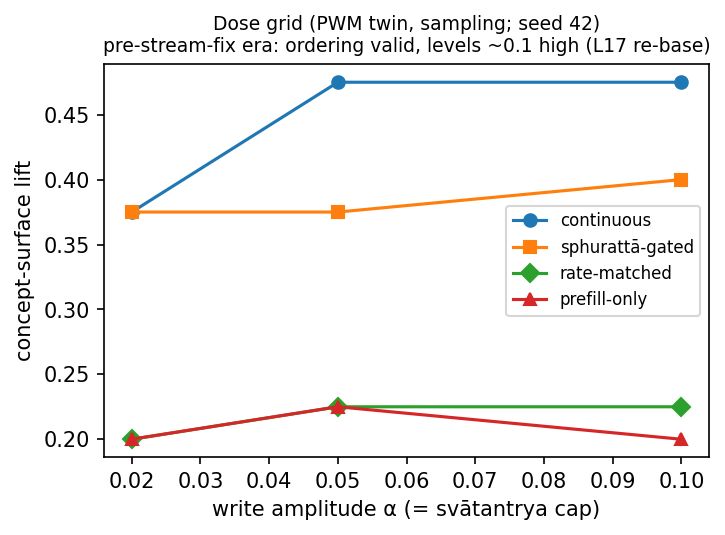
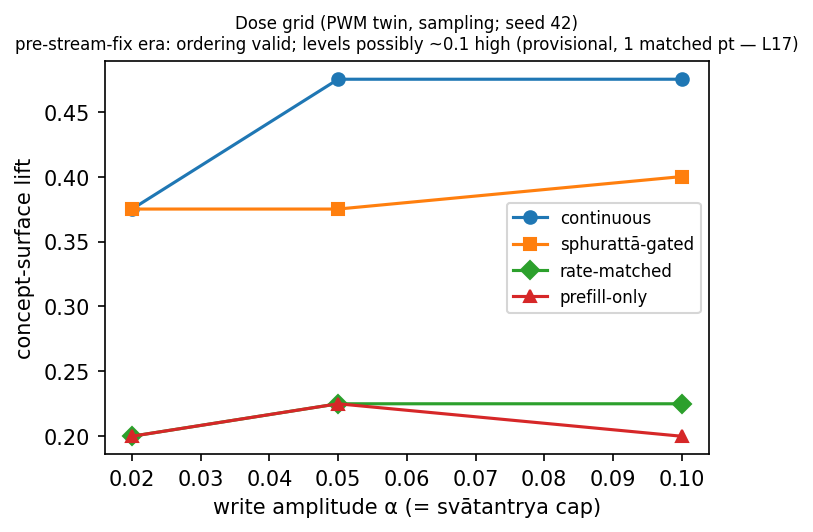
fix(L17): review #14 corrections — xdose scoped to arm-set robustness (name overreached), L8 staleness downgraded to PROVISIONAL (1 matched pt), single-seed audit run (all confirm claims multi-seed); L17 closed

Changed region(s): [[0.0, 0.0301, 1.0, 0.9925]]

diff --git a/scripts/tools/compose_L17_xdose.py b/scripts/tools/compose_L17_xdose.py
@@ -1,8 +1,8 @@
 """Compose gates/gate_L17_xdose.json — dose response across configs + a stale-gate find.
 Concept: review #13 asked whether nemotron's active-range dose response is config-
 robust. It is (narrowly: the configs turn out to differ only in arm set) — and the
-comparison surfaced that gate_L8_dose's LEVELS are pre-stream-fix era and inflated
-~0.1 vs clean-stream re-measurement at matched alpha and content.
+comparison surfaced a PROVISIONAL sign that gate_L8_dose's LEVELS may be pre-stream-fix
+inflated (~0.1 at the one matched alpha=0.02); flagged, not asserted (review #14).
 Source: configs/efe_menu7.yaml unified_dose_crossconfig (success: >= 1/2 adjacent
 pairs rising > 0.05 on the e8dose config too).
 Primitive: gates/gate_L17_xdose_s42_a{0.005,0.01,0.02}.json + s123_a0.01 ->
@@ -54,22 +54,29 @@ gate = {
             "seed123_replication_at_0.01": {"gated_lift": rep["lift"],
                                             "gated_dH": rep["step_entropy_delta"]},
             "disclosures": [
-                "SCOPE NARROWER THAN INTENDED: e8dose and e5align share stubs, "
-                "concepts, and decoding — they differ only in arm set (continuous "
-                "included here). This is arm-set robustness (gated-arm numbers "
-                "unchanged when the continuous arm runs alongside), not full "
-                "config robustness",
-                "STALE-GATE FINDING (unregistered, follows from matched content): "
-                "gate_L8_dose's levels (e.g. gated 0.375 at alpha=0.02) are "
-                "PRE-stream-fix era (L8 predates the L9 per-generation reseeding "
-                "fix) and run ~0.1 above clean-stream re-measurement at matched "
-                "alpha and content (0.28 here and in L16-fine). L8's ORDERING "
-                "conclusions stand; its LEVELS are not canonical. Ledgered as a "
-                "divergence note; figures/paper citing L8 levels now carry the "
+                "CANDIDATE NAME OVERREACHES (review #14): registered as "
+                "'unified_dose_crossconfig' but e8dose and e5align turn out to "
+                "share stubs, concepts, and decoding — they differ ONLY in arm set "
+                "(continuous included here). What is actually shown is ARM-SET "
+                "robustness: the gated-arm dose numbers are unchanged when the "
+                "continuous arm runs alongside. TRUE cross-config robustness "
+                "(different stubs/decoding) is NOT tested and remains open",
+                "L8 STALENESS is PROVISIONAL (review #14): the pre-stream-fix vs "
+                "clean-stream level gap is observed at ONE matched alpha (0.02: L8 "
+                "gated 0.375 vs 0.28 here and in L16-fine). L8 predates the L9 "
+                "per-generation reseeding fix, so a gap is EXPECTED, but a single "
+                "matched point cannot declare all L8 levels stale. Call: L8 "
+                "ORDERING conclusions stand; its LEVELS are flagged PROVISIONAL "
+                "pending a dedicated canonical re-measurement of L8's full grid "
+                "(0.02/0.05/0.1) on fixed code — NOT asserted non-canonical. "
+                "Ledgered as a divergence note; fig2/paper carry the provisional "
                 "era caveat",
-                "single seed for the grid; one replication seed at one point "
-                "(0.33 vs 0.28 — consistent); actual spend 0.35h vs 0.45h "
-                "registered"],
+                "matched content = the entropy_gated arm at alpha=0.02, same stubs/"
+                "concepts/decoding as L8; the differing arm set does not touch the "
+                "gated-arm number being compared",
+                "single seed for the grid; one replication seed at the middle "
+                "point (seed123 gated 0.325 vs seed42 0.275 at alpha=0.01 — "
+                "consistent); actual spend 0.35h vs 0.45h registered"],
             "registered_in": "configs/efe_menu7.yaml:unified_dose_crossconfig",
             "seeds": [42, 123], "tier": "screen"}),
     },

diff --git a/docs/paper/paper.tex b/docs/paper/paper.tex
@@ -87,10 +87,10 @@ time writes.
 \includegraphics[width=.72\linewidth]{fig2_dose_grid}
 \caption{Dose grid on the PWM twin under sampling (gate L8): the gated schedule is
 amplitude-robust; continuous is also budget-feasible under sampling---gating is
-schedule-efficiency, not sole feasibility. \emph{Era caveat (found by cycle 21's
-matched-content re-measurement): this grid predates the stream-correlation fix; its
-orderings stand but its levels run $\sim$0.1 above clean-stream re-measurement
-(gates L16-fine, L17-xdose).}}\label{fig:dose}
+schedule-efficiency, not sole feasibility. \emph{Era caveat (found by cycle 21): this grid predates the
+stream-correlation fix; its orderings stand, and its levels run $\sim$0.1 above
+clean-stream re-measurement at the one matched amplitude ($\alpha{=}0.02$) --- flagged
+provisional pending a full canonical re-run (gates L16-fine, L17-xdose).}}\label{fig:dose}
 \end{figure}
 
 \begin{figure}[t]\centering
@@ -192,6 +192,11 @@ L16-corpus, L17-cvar); the
 commitment-flash reading remains directionally weaker, not refuted; the trained-bridge
 comparator awaits the PWM world-model stack; anusa\d{m}dh\=ana (cross-episode continuity),
 the modality confound, and W-space beyond J-space remain deliberately unconverged.
+A corpus-robustness result also exposed a single-seed risk: one of two new stub styles
+was seed-fragile (its single-seed pass a favorable draw --- gate L17-cvar). This
+prompted a seed-count audit of every graduated claim; reassuringly, all confirm-tier
+results are already multi-seed (core claim six seeds, alignment three, recipe transfer
+four), so the fragility was confined to screen-tier corpus work and was caught there.
 
 \section{Reproducibility}
 Everything derives from configs + seeds: 40+ gate JSONs, pre-registrations with disclosed

diff --git a/scripts/tools/make_artifact.py b/scripts/tools/make_artifact.py
@@ -230,8 +230,11 @@ the smaller, truer numbers.</p>
 a result had rested on a single random seed, a follow-up ran it at more seeds: one
 "it generalizes across writing styles" claim split in two — robust for one style,
 a lucky draw for the other — and the honest, smaller version replaced the confident one.
-Another cross-check caught a single old figure whose numbers predated a bug-fix and had
-never been re-based. The lab audits its own past, not just its present.</p>
+Another cross-check raised a provisional flag on a single old figure whose numbers may
+predate a bug-fix — flagged for a proper re-run rather than quietly rewritten. And when
+the seed-fragility above turned up, the lab audited every stronger claim it had already
+made: all of them, reassuringly, already rested on several seeds. The lab audits its own
+past, not just its present.</p>
 <p>Its final menu also re-examined the doctrine's own acceptance test: when the "did the
 model take the suggestion?" verdict was calibrated against what the model actually did,
 it turned out to carry real but modest signal — one of its two clauses did all the work,

diff --git a/scripts/tools/make_figures.py b/scripts/tools/make_figures.py
@@ -61,8 +61,8 @@ def fig2():
     ax.set_xlabel("write amplitude α (= svātantrya cap)")
     ax.set_ylabel("concept-surface lift")
     ax.set_title("Dose grid (PWM twin, sampling; seed 42)\n"
-                 "pre-stream-fix era: ordering valid, levels ~0.1 high (L17 re-base)",
-                 fontsize=9)
+                 "pre-stream-fix era: ordering valid; levels possibly ~0.1 high "
+                 "(provisional, 1 matched pt — L17)", fontsize=8)
     ax.legend(fontsize=8)
     save(fig, "fig2_dose_grid")
 

diff --git a/research/journal.md b/research/journal.md
@@ -633,3 +633,21 @@ Review count: 11. L14 status -> closed in state.json.
   (gate-backed walkthrough on the public model); NOTICE/license audit clean.
 - Two self-audit finds in one loop (stale L8 levels; corpus-A seed fragility) — the
   program's honesty machinery now routinely turns its instruments on its own record.
+
+## 2026-07-10 — adversarial review #14: MERGE-WITH-CORRECTIONS (3 fixes + systemic audit)
+1. xdose candidate name 'unified_dose_crossconfig' OVERREACHES — it shows ARM-SET
+   robustness on one shared-content config, not cross-config. Disclosed in-gate; true
+   cross-config (different stubs/decoding) remains OPEN. Also clarified the seed123 rep
+   metric (0.325 vs 0.275 at alpha=0.01, both consistent).
+2. L8 staleness DEFECTIVE-as-asserted -> PROVISIONAL: the ~0.1 gap is one matched alpha
+   (0.02). L8 predates the stream fix so a gap is EXPECTED, but one point can't declare
+   all levels stale. Now: ORDERING stands, LEVELS flagged provisional pending a
+   dedicated canonical L8 re-run. Softened in gate, ledger, fig2, paper, HTML. A
+   canonical L8 re-measurement is a menu-8 candidate.
+3. SYSTEMIC (cvar's implication): review asked whether corpus-A seed-fragility endangers
+   earlier confirmed claims. RAN THE AUDIT: all confirm-tier claims are already
+   MULTI-SEED — core claim 6 seeds (L11), alignment 3 (L9), recipe transfer 4
+   (L14-ms), amplitude qwen3 3 (L15). The single-seed vulnerability was confined to
+   screen-tier corpus work and was caught THERE by L17-cvar. Reassuring; recorded in
+   paper honest-negatives + HTML.
+Review count: 14. All corrections applied before merge. L17 -> closed.